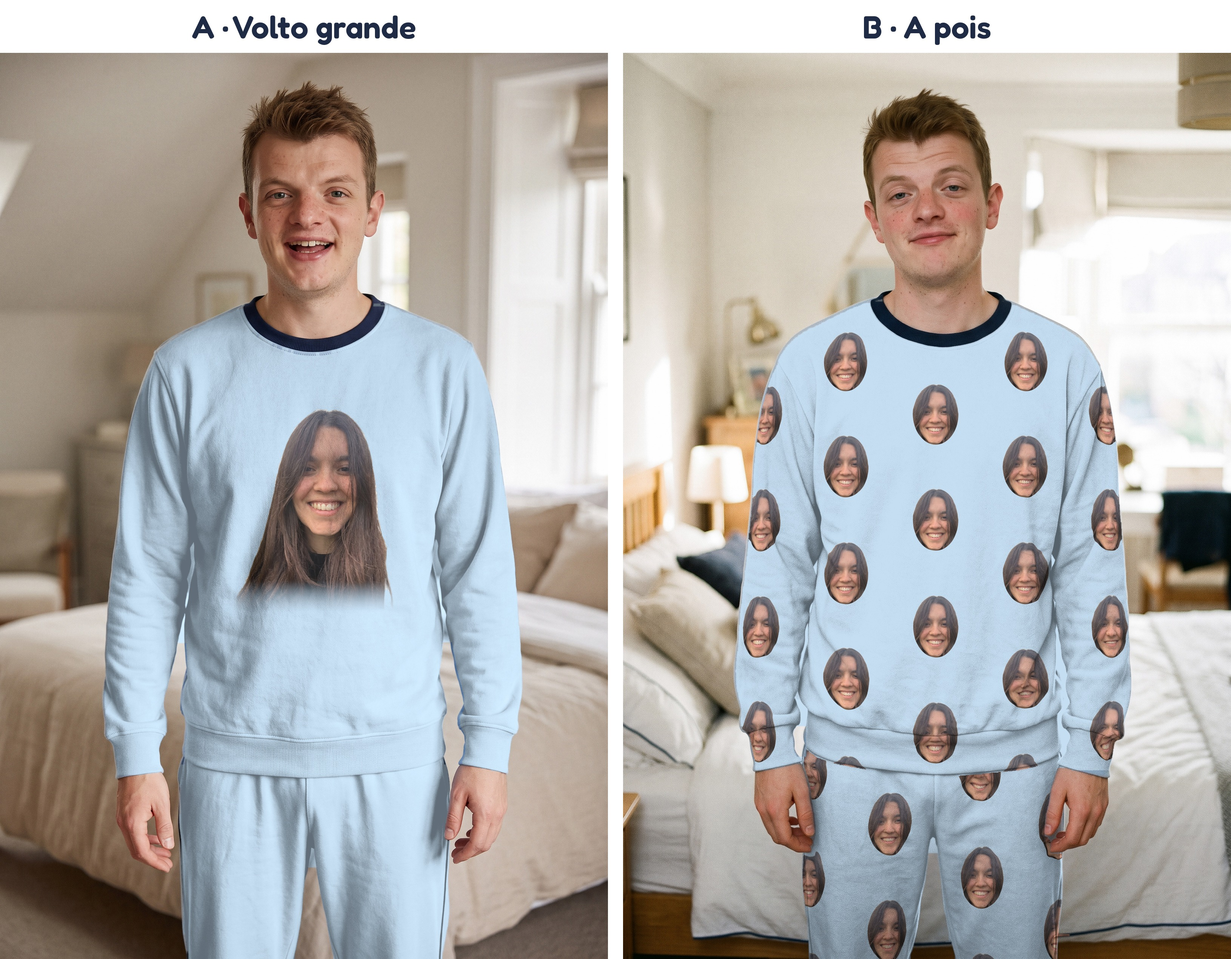
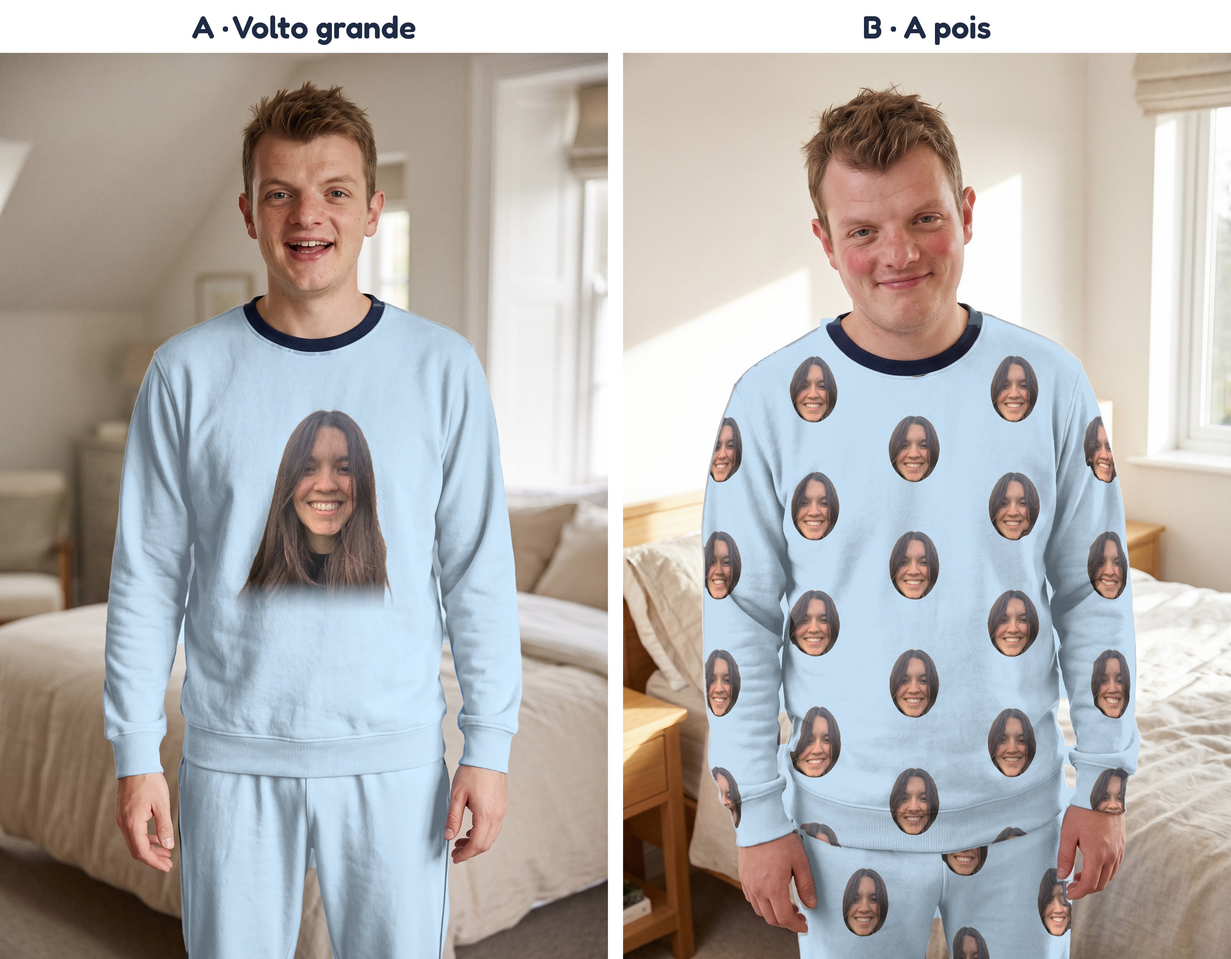
Round 3: tre scatti B rigenerati con volto piu fedele ai riferimenti
Claude-Session: https://claude.ai/code/session_01A3Ykmu797JH4A1oQR2EATQ

diff --git a/scripts/round3_compositing.py b/scripts/round3_compositing.py
@@ -1,0 +1,114 @@
+import numpy as np, cv2, math
+from PIL import Image
+R="/home/user/outputclaude"; AZ=np.array([0xBF,0xD7,0xEA],np.float32)/255
+def s2l(x): x=np.clip(x,0,1); return np.where(x<=0.04045,x/12.92,((x+0.055)/1.055)**2.4)
+def l2s(x): x=np.clip(x,0,1); return np.where(x<=0.0031308,x*12.92,1.055*x**(1/2.4)-0.055)
+def load_rgba(p):
+    im=np.array(Image.open(p).convert("RGBA")).astype(np.float32)/255; return im
+def region(bgr,sam_path,k,buttons=True,pip_allow=None,navy_extra=None,keep_extra=None):
+    H,W=bgr.shape[:2]
+    m=cv2.resize(cv2.imread(sam_path,0),(W,H),interpolation=cv2.INTER_CUBIC)>127
+    m=cv2.erode(m.astype(np.uint8),np.ones((int(1*k)+1,)*2,np.uint8)).astype(bool)
+    hsv=cv2.cvtColor(bgr,cv2.COLOR_BGR2HSV); h,s,v=[hsv[...,i].astype(int) for i in range(3)]
+    button=cv2.dilate((((h<60)|(h>150))&(s>22)&(v>70)).astype(np.uint8),np.ones((int(3*k)+1,)*2,np.uint8)).astype(bool)
+    bluish=~button if buttons else np.ones_like(button)
+    vv=cv2.GaussianBlur(v.astype(np.uint8),(0,0),0.8*k)
+    bh=cv2.morphologyEx(vv,cv2.MORPH_BLACKHAT,cv2.getStructuringElement(cv2.MORPH_ELLIPSE,(int(14*k)|1,)*2)).astype(int)
+    dark=((bh>26)&(v<120)&(s>45)&(h>=90)&(h<=135)).astype(np.uint8)       # thin dark lines only
+    dark=cv2.morphologyEx(dark,cv2.MORPH_CLOSE,np.ones((int(3*k)|1,)*2,np.uint8))
+    n,lab,st,_=cv2.connectedComponentsWithStats(dark,connectivity=8)
+    md=np.maximum(st[:,cv2.CC_STAT_WIDTH],st[:,cv2.CC_STAT_HEIGHT]).astype(np.float32)
+    pip=(md>28*k); pip[0]=False                                          # long = piping, short = noise
+    navy=cv2.dilate(np.isin(lab,np.where(pip)[0]).astype(np.uint8),np.ones((int(3*k)+1,)*2,np.uint8)).astype(bool)
+    keep=keep_extra(bgr,h,s,v,k) if keep_extra is not None else None
+    r=(m&bluish).astype(np.float32)
+    if keep is not None:
+        grow=cv2.dilate(keep.astype(np.uint8),np.ones((int(35*k)|1,)*2,np.uint8))>0
+        skin=((h<=30)|(h>=160))&(s>=28)
+        add=grow&~keep&~skin&(v>=40)&(np.arange(bgr.shape[0])[:,None]>=0)
+        add=cv2.morphologyEx(add.astype(np.uint8),cv2.MORPH_CLOSE,np.ones((int(7*k)|1,)*2,np.uint8))>0
+        sk=((h<=30)|(h>=160))&(s>=28)&grow
+        r=np.maximum(r,add.astype(np.float32)); r[sk]=0
+        r=np.where(cv2.dilate(sk.astype(np.uint8),np.ones((int(9*k)|1,)*2,np.uint8))>0, r, r)
+        r=r*(1-cv2.GaussianBlur(keep.astype(np.float32),(0,0),0.8*k)).clip(0,1)
+    if pip_allow is not None:
+        yy_,xx_=np.mgrid[0:bgr.shape[0],0:bgr.shape[1]]; navy=navy&pip_allow(xx_/k,yy_/k)
+    if navy_extra is not None: navy=navy|navy_extra(bgr,h,s,v,k)
+    navy_soft=cv2.GaussianBlur((navy&m).astype(np.float32),(0,0),0.9*k)
+    r=cv2.morphologyEx(r,cv2.MORPH_OPEN,np.ones((3,3),np.uint8))
+    return cv2.GaussianBlur(r,(0,0),0.9*k), cv2.morphologyEx(m.astype(np.uint8),cv2.MORPH_CLOSE,np.ones((int(15*k)|1,)*2,np.uint8)), navy_soft
+def shading(bgr,reg):
+    rgb=bgr[...,::-1].astype(np.float32)/255; Y=(s2l(rgb)*np.array([0.2126,0.7152,0.0722],np.float32)).sum(2)
+    ref=np.median(Y[reg>0.95]); sh=np.clip(Y/ref,0.25,1.8)**1.05; sh=cv2.GaussianBlur(sh,(0,0),0.7); sh=np.where(sh>1,1+0.45*(sh-1),sh); return sh,ref
+def foldshift(sh,k,amp,reg):
+    w=(reg>0.5).astype(np.float32)
+    Ls=cv2.GaussianBlur(sh*w,(0,0),5*k)/np.maximum(cv2.GaussianBlur(w,(0,0),5*k),1e-3)
+    bg=cv2.GaussianBlur(sh*w,(0,0),30*k)/np.maximum(cv2.GaussianBlur(w,(0,0),30*k),1e-3)
+    hp=(Ls-bg)*w
+    gx=cv2.Sobel(hp,cv2.CV_32F,1,0,ksize=3); gy=cv2.Sobel(hp,cv2.CV_32F,0,1,ksize=3)
+    n=np.percentile(np.hypot(gx,gy)[w>0.5],95)+1e-6
+    return np.clip(gx/n,-1,1)*amp*k, np.clip(gy/n,-1,1)*amp*k
+def cyl(reg,k,strength=0.8):
+    m=(reg>0).astype(np.uint8); d=cv2.distanceTransform(m,cv2.DIST_L2,5)
+    sc=4; ds=cv2.resize(d,None,fx=1/sc,fy=1/sc,interpolation=cv2.INTER_AREA)
+    wh=cv2.dilate(ds,np.ones((int(260*k/sc)|1,)*2,np.uint8)); wh=cv2.GaussianBlur(wh,(0,0),6)
+    wh=cv2.resize(wh,(d.shape[1],d.shape[0]),interpolation=cv2.INTER_LINEAR)+1e-3
+    dg=cv2.GaussianBlur(d,(0,0),10*k); gx=-cv2.Sobel(dg,cv2.CV_32F,1,0,ksize=5); gy=-cv2.Sobel(dg,cv2.CV_32F,0,1,ksize=5)
+    nn=np.hypot(gx,gy)+1e-6; ox,oy=gx/nn,gy/nn
+    r=np.clip(1-d/wh,0,0.95); delta=wh*(np.arcsin(r)-r)*strength
+    return ox*delta,oy*delta
+def sample(print_rgba,mapx,mapy,wrap=False):
+    pm=print_rgba.copy(); pm[...,:3]*=pm[...,3:4]
+    if wrap:
+        h,w=pm.shape[:2]; big=np.tile(pm,(3,3,1)); mapx=(mapx%w)+w; mapy=(mapy%h)+h
+        out=cv2.remap(big,mapx.astype(np.float32),mapy.astype(np.float32),cv2.INTER_LINEAR,borderMode=cv2.BORDER_REFLECT)
+    else:
+        out=cv2.remap(pm,mapx.astype(np.float32),mapy.astype(np.float32),cv2.INTER_LINEAR,borderMode=cv2.BORDER_CONSTANT,borderValue=(0,0,0,0))
+    a=out[...,3:4]; rgb=np.where(a>1e-4,out[...,:3]/np.maximum(a,1e-4),0); return rgb,a[...,0]
+def composite(base_path,sam_path,layers,k,buttons=True,pip_allow=None,navy_extra=None,keep_extra=None,fold_amp=5,cylinder=False,wrap_scale=None,tile=None,pxcm=None,tile_origin=(0,0),tile_rot=0.0,tile_split=None):
+    """layers: list of dict(print=rgba array, cx,cy (image coords centre, 1x), scale (print px->image px, 1x units), rot_deg)
+       or tile mode: pattern from `tile` rgba, scale = pxcm/118 (300dpi)."""
+    bgr=cv2.imread(base_path); H,W=bgr.shape[:2]
+    reg,full,nv=region(bgr,sam_path,k,buttons,pip_allow,navy_extra,keep_extra); sh,_=shading(bgr,reg*(1-nv))
+    fx,fy=foldshift(sh,k,fold_amp,reg)
+    yy,xx=np.mgrid[0:H,0:W].astype(np.float32)
+    cx_,cy_=(0,0)
+    if cylinder:
+        cxs,cys=cyl(full,k); fx=fx+cxs; fy=fy+cys
+    base_lin=s2l(bgr[...,::-1].astype(np.float32)/255)
+    fab=np.broadcast_to(s2l(AZ),(H,W,3))*sh[...,None]
+    col=fab.copy()
+    def place(pr,cx,cy,sc,rot):
+        # image px -> print px (in downscaled print domain)
+        th=math.radians(rot); c,s=math.cos(th),math.sin(th)
+        X=xx+fx-cx*k; Y=yy+fy-cy*k
+        u=( c*X+s*Y)/(sc*k); v=(-s*X+c*Y)/(sc*k)
+        return u+pr.shape[1]/2, v+pr.shape[0]/2
+    if tile is not None:
+        s=pxcm*k/118.11; t=cv2.resize(tile,None,fx=s,fy=s,interpolation=cv2.INTER_AREA)
+        th=math.radians(tile_rot); c,sn=math.cos(th),math.sin(th)
+        X=xx+fx+tile_origin[0]; Y=yy+fy+tile_origin[1]
+        if tile_split is not None:
+            sy,org2=tile_split
+            if isinstance(sy,str):
+                pm=cv2.resize(cv2.imread(sy,0),(W,H),interpolation=cv2.INTER_LINEAR)>127; lowm=pm
+            else: lowm=yy>=sy*k
+            X=np.where(lowm,xx+fx+org2[0],X); Y=np.where(lowm,yy+fy+org2[1],Y)
+        u=c*X+sn*Y; v=-sn*X+c*Y
+        rgb,a=sample(t,u,v,wrap=True)
+        ink=(s2l(rgb)*0.95+0.01)*np.clip(sh[...,None],0.2,1.1)**1.15; col=col*(1-a[...,None])+ink*a[...,None]
+    for L in layers:
+        sc=L["scale"]; pr=cv2.resize(L["print"],None,fx=sc*k if False else 1,fy=1,interpolation=cv2.INTER_AREA) if False else L["print"]
+        f=sc*k; prs=cv2.resize(pr,(max(1,int(pr.shape[1]*f)),max(1,int(pr.shape[0]*f))),interpolation=cv2.INTER_AREA)
+        th=math.radians(L.get("rot",0)); c,s=math.cos(th),math.sin(th)
+        fm=L.get("fold",1.0); X=xx+fx*fm-L["cx"]*k; Y=yy+fy*fm-L["cy"]*k
+        u=c*X+s*Y+prs.shape[1]/2; v=-s*X+c*Y+prs.shape[0]/2
+        rgb,a=sample(prs,u,v)
+        a=a*L.get("opacity",1.0); ink=(s2l(rgb)*0.93+0.012)*np.clip(sh[...,None],0.2,1.08)**1.2; col=col*(1-a[...,None])+ink*a[...,None]
+    rgbf=bgr[...,::-1].astype(np.float32)/255; Yb=(s2l(rgbf)*np.array([0.2126,0.7152,0.0722],np.float32)).sum(2)
+    sel=nv>0.5; refn=np.median(Yb[sel]) if sel.any() else 1.0
+    nav=np.broadcast_to(s2l(np.array([0x1F,0x2A,0x44],np.float32)/255),(H,W,3))*np.clip(Yb/refn,0.35,1.5)[...,None]
+    col=col*(1-nv[...,None])+nav*nv[...,None]
+    out_lin=base_lin*(1-reg[...,None])+col*reg[...,None]
+    out=(l2s(out_lin)*255).astype(np.uint8)[...,::-1]
+    return out,reg,sh

diff --git a/scripts/round3_render.py b/scripts/round3_render.py
@@ -1,0 +1,40 @@
+import sys, json; sys.path.insert(0,"/tmp/claude-0/-home-user-outputclaude/85985d80-c67e-5fa8-a067-f42ebe7f77ad/scratchpad")
+import numpy as np, cv2
+from PIL import Image
+from comp import *
+which=sys.argv[1]; k=float(sys.argv[2]); out=sys.argv[3]
+W2="/home/user/outputclaude/work/r3"
+G=dict(json.load(open(f"{W2}/geo.json")))
+OVR=json.load(open(f"{W2}/override.json")) if __import__("os").path.exists(f"{W2}/override.json") else {}
+def crop(p):
+    im=Image.open(p).convert("RGBA"); bb=im.getchannel("A").getbbox(); return np.array(im.crop(bb)).astype(np.float32)/255
+tile=load_rgba(f"{R}/print/B_pattern_tile.png"); PX,PY=1600,1888
+def run(n,kind,dst):
+    g=dict(G[n]); g.update(OVR.get(n,{})); y0,top,cx=g["y0"],g["top"],g["cx"]; L=top-y0; pxcm=L/68.0
+    base=f"{W2}/up_{n}.jpg" if k>1 else f"{W2}/base_{n}.png"; sam=f"{W2}/garment_{n}.png"
+    def neck(bgr,h,s,v,kk):
+        yy_,xx_=np.mgrid[0:bgr.shape[0],0:bgr.shape[1]]; yy_=yy_/kk; xx_=xx_/kk
+        zone=(yy_>y0-25)&(yy_<y0+0.17*L)&(np.abs(xx_-g.get("ncx",cx))<0.24*L)&(h>=98)&(h<=135)
+        strong=(zone&(s>85)&(v<110)).astype(np.uint8)
+        m_=cv2.morphologyEx(strong,cv2.MORPH_CLOSE,np.ones((int(5*kk)|1,)*2,np.uint8))
+        n_,lab,st,_=cv2.connectedComponentsWithStats(m_)
+        if n_>1:
+            k_=1+int(np.argmax(st[1:,cv2.CC_STAT_AREA])); m_=(lab==k_).astype(np.uint8)
+        m_=cv2.dilate(m_,np.ones((int(1*kk)|1,)*2,np.uint8))
+        return m_>0
+    allow=lambda x,y: (y<-1)
+    if kind=="A_front":
+        fig=crop(f"{R}/print/A_front.png"); cyf=y0+g.get("fy",0.43)*L
+        img,_,_=composite(base,sam,[dict(print=fig,cx=cx,cy=cyf,scale=0.45*L/fig.shape[0])],k,buttons=False,pip_allow=allow,keep_extra=neck)
+    elif kind=="A_back":
+        txt=crop(f"{R}/print/A_back.png"); cyt=y0+g.get("fy",0.30)*L
+        img,_,_=composite(base,sam,[dict(print=txt,cx=cx,cy=cyt,scale=g.get("tw",0.44)*L/txt.shape[1],fold=0.3,rot=g.get("rot",0))],k,buttons=False,pip_allow=allow,keep_extra=neck)
+    else:
+        s_=pxcm*k/118.11; fcx=cx; fcy=y0+0.46*L
+        org=(PX/2*s_-fcx*k, PY/2*s_-fcy*k); org2=(PX/2*s_-fcx*k+PX*s_*0.5, PY/2*s_-(top+0.13*L)*k)
+        img,_,_=composite(base,sam,[],k,buttons=False,pip_allow=allow,keep_extra=neck,cylinder=True,tile=tile,pxcm=pxcm,tile_origin=org,tile_rot=g.get("rot",0),tile_split=(f"{W2}/pantsmask_{n}.png",org2))
+    cv2.imwrite(dst,img,[cv2.IMWRITE_JPEG_QUALITY,93]); print("wrote",dst)
+jobs={"Afront":("A_front","A_pigiama_fronte.jpg"),"Aback":("A_back","A_pigiama_retro.jpg"),"Bfront":("B","B_pigiama_fronte.jpg"),
+      "Bback":("B","B_pigiama_retro.jpg"),"Bcrown":("B","B_pigiama_fronte_coroncina.jpg")}
+for n in which.split(","):
+    kind,fn=jobs[n]; run(n,kind,out+fn)

diff --git a/scripts/round3_facegrid.py b/scripts/round3_facegrid.py
@@ -1,0 +1,22 @@
+import sys, numpy as np
+from PIL import Image, ImageDraw, ImageFont
+import mediapipe as mp
+from mediapipe.tasks import python as mpp
+from mediapipe.tasks.python import vision
+R="/home/user/outputclaude"
+det=vision.FaceLandmarker.create_from_options(vision.FaceLandmarkerOptions(base_options=mpp.BaseOptions(model_asset_path=f"{R}/work/face_landmarker.task"),num_faces=1,min_face_detection_confidence=0.2))
+def fc(path,pad=0.55):
+    im=Image.open(path).convert("RGB"); sm=im.resize((im.width//2,im.height//2)); a=np.array(sm)
+    r=det.detect(mp.Image(image_format=mp.ImageFormat.SRGB,data=a))
+    if not r.face_landmarks: return im.crop((0,0,im.width,im.width))
+    lm=np.array([[p.x*a.shape[1],p.y*a.shape[0]] for p in r.face_landmarks[0]])*2
+    x0,y0=lm.min(0); x1,y1=lm.max(0); cx,cy=(x0+x1)/2,(y0+y1)/2; s=max(x1-x0,y1-y0)*(1+pad)
+    return im.crop((int(cx-s/2),int(cy-s/2),int(cx+s/2),int(cy+s/2)))
+refs=sys.argv[1].split(","); cands=sys.argv[2:]; S=340
+f=ImageFont.truetype(f"{R}/work/fonts/Fredoka.ttf",24); f.set_variation_by_axes([500,100])
+c=Image.new("RGB",((len(refs)+len(cands))*(S+8)+8,S+16),(255,255,255)); d=ImageDraw.Draw(c); x=8
+for r in refs:
+    im=Image.open(f"{R}/work/ref_face_{r}_white.png").convert("RGB"); im.thumbnail((S,S)); c.paste(im,(x+(S-im.width)//2,8+(S-im.height)//2)); d.text((x+6,10),f"rif {r}",font=f,fill=(30,40,70)); x+=S+8
+for p in cands:
+    im=fc(p).resize((S,S)); c.paste(im,(x,8)); d.text((x+6,10),p.split("/")[-1].replace(".png",""),font=f,fill=(255,255,255)); x+=S+8
+c.save(f"{R}/work/r3/_grid.jpg",quality=90)
